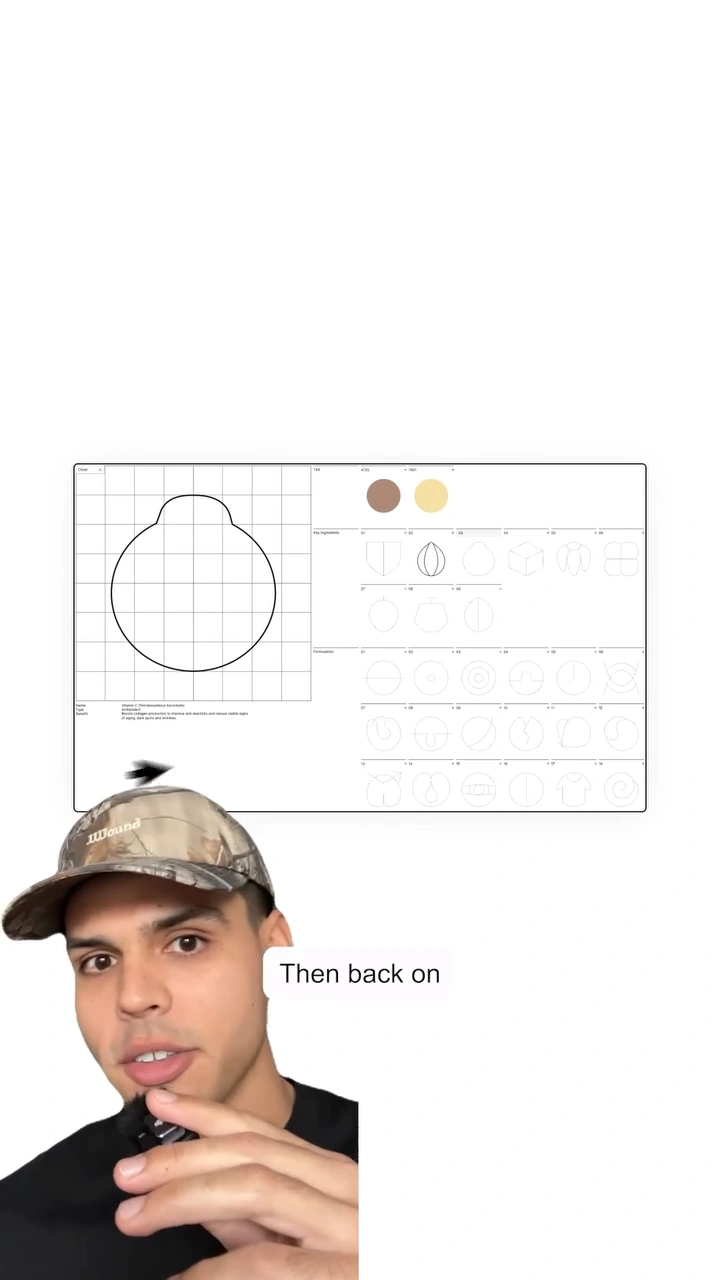
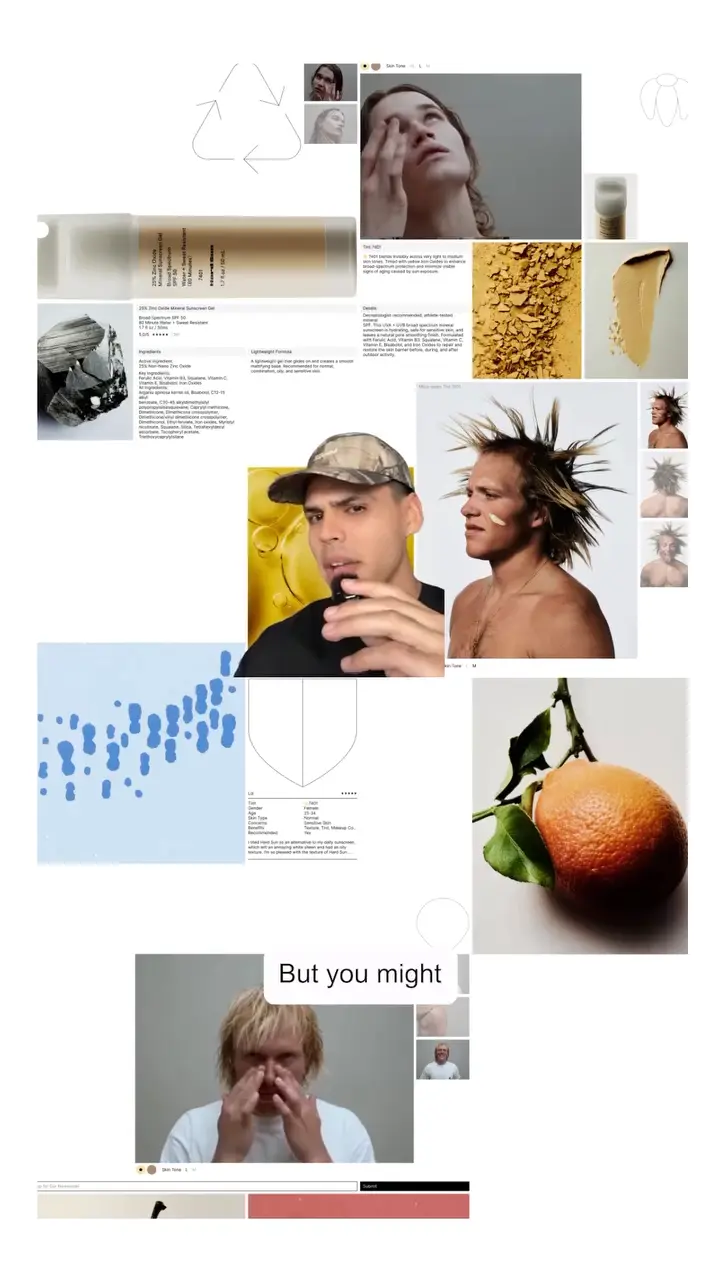
yeah

diff --git a/index.html b/index.html
@@ -667,6 +667,16 @@
       font-size: 12px;
       color: var(--muted);
     }
+    .watermark{
+      margin-top: 10px;
+      padding: 20px 0;
+      text-align: center;
+      font-size: 12px;
+      color: var(--muted);
+      opacity: 0.45;
+      user-select: none;
+      letter-spacing: 0.02em;
+    }
     .ctaEmail{
   font-size: 13.5px;
   color: var(--muted);
@@ -1353,5 +1363,8 @@
 
     apply();
   </script>
+  <footer class="watermark">
+  Designed and developed by Madani, 2026
+  </footer>
 </body>
 </html>
